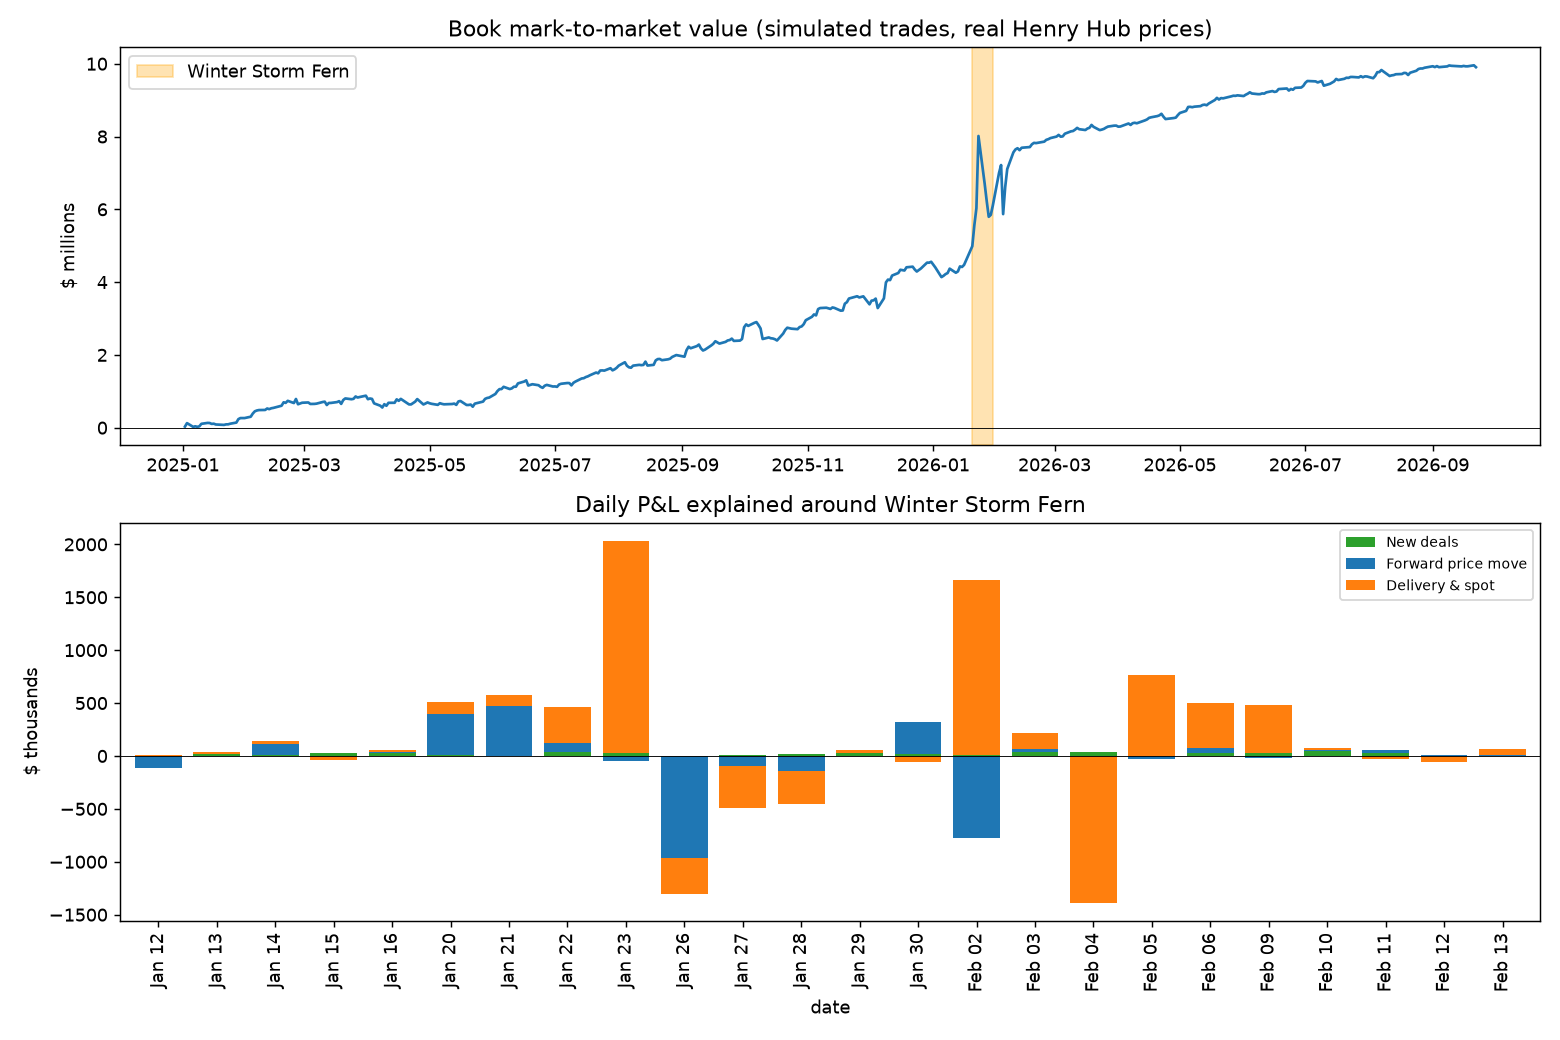
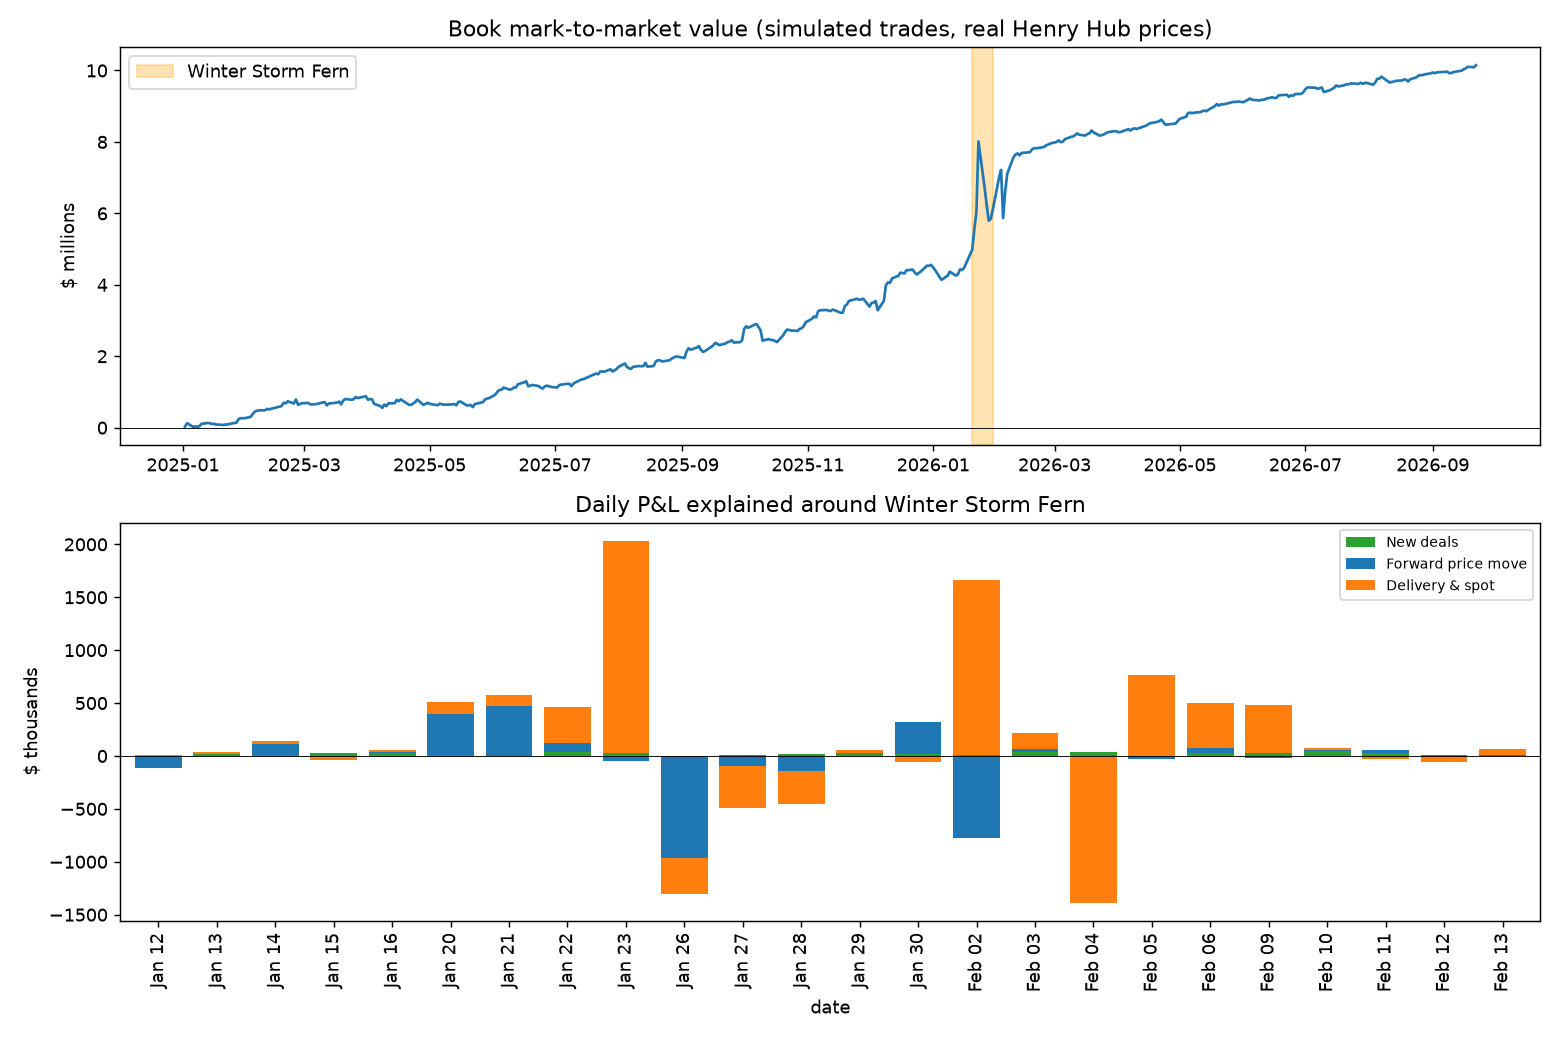
extending simulated book to the latest price date and refresh reports

diff --git a/src/gasbook/book/simulate.py b/src/gasbook/book/simulate.py
@@ -14,7 +14,7 @@ import numpy as np
 import pandas as pd
 
 SEED = 2026
-START, END = "2025-01-02", "2026-08-31"
+START, END = "2025-01-02", "2026-09-22"  # END = latest price date in the data
 HUB = "HH"
 TRADERS = ["Trader 1", "Trader 2", "Trader 3"]
 VOLUMES = [2_500, 5_000, 7_500, 10_000, 15_000, 20_000]  # MMBtu/day, typical physical deal sizes
